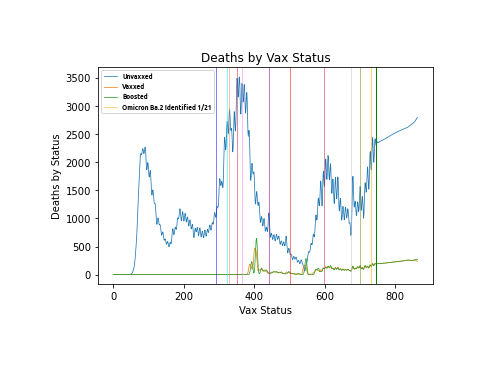
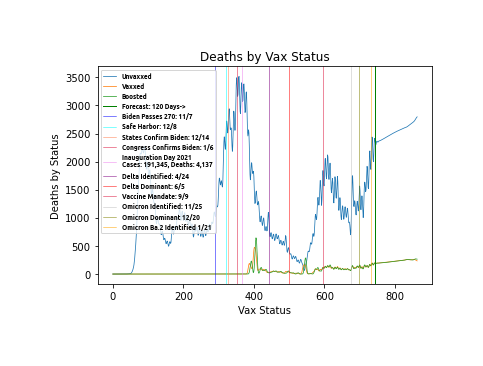
vax status plot

Changed region(s): [[0.0932, 0.1202, 0.9006, 0.8716], [0.8385, 0.3306, 0.8696, 0.3607]]

diff --git a/CovidDLModel.py b/CovidDLModel.py
@@ -218,6 +218,7 @@ def plotUS(inday, intoday, cdate, currentDate, cases, caseRate, growthRates,
     plt.clf()
     plt.cla()
     plt.close()
+    return legend
 
 
 def vaccinePlot(title, plotType, sources=[], plotLabels=[], yscale='log', 
@@ -253,13 +254,14 @@ def vaccinePlot(title, plotType, sources=[], plotLabels=[], yscale='log',
     plt.cla()
     plt.close()
 
-def generalPlot(title, plotType, axisLabel, sources=[], plotLabels=[], yscale='log',
-                lw=.75, ls='solid'):
+
+def generalPlot(title, plotType, axisLabel, sources, yscale='log',
+                average=True, lw=.75, ls='solid', legend=None):
     """Plot generalized data."""
     labels = []
     font = FontProperties(family='ubuntu', weight='bold',
                           style='normal', size=6.5)
-    for row in sources.keys():
+    for key in sources.keys():
         # width = lw
         # style = ls
         # if num == 0:
@@ -268,8 +270,16 @@ def generalPlot(title, plotType, axisLabel, sources=[], plotLabels=[], yscale='l
         # elif num == 1:
         #     style = 'dashed'
         #     width = 1.25
-        label, = plt.plot(sources[row], label=row, lw=lw, ls=ls)
+        row = sources[key]
+        if average is True:
+            row = gs1d(row, sigma=2)
+        label, = plt.plot(row, label=key, lw=lw, ls=ls)
         labels.append(label)
+    if not legend is None:
+        for key in legend:
+            label = plt.axvline(legend[key][0], color=legend[key][1],
+                                label=key, linewidth=legend[key][2])
+            labels.append(label)
     plt.xlabel(axisLabel['x'])
     plt.ylabel(axisLabel['y'])
     plt.legend(handles=labels, prop=font, loc='upper left')
@@ -278,10 +288,12 @@ def generalPlot(title, plotType, axisLabel, sources=[], plotLabels=[], yscale='l
     plt.savefig(plotPath + 'daily_{}.png'.format(plotType),
                 bbox_inches="tight",
                 pad_inches=0.5 + random.uniform(0.0, 0.25))
+    # plt.set_ylim(ymin=0)
     plt.show(block=False)
     plt.clf()
     plt.cla()
     plt.close()
+
 
 def fmtInt(num):
     """Format an integer to thousands."""
@@ -464,8 +476,9 @@ if __name__ == "__main__":
         printText += (text + '\n')
     plotUS(day, today, cdate, currentDate, cases, caseRate, growthRates,
            deaths, dailyDeaths, deathRate, yscale='linear', scenarios=False)
-    plotUS(day, today, cdate, currentDate, cases, caseRate, growthRates,
-           deaths, dailyDeaths, deathRate, yscale='linear', plotType='deaths')
+    legend = plotUS(day, today, cdate, currentDate, cases, caseRate,
+                    growthRates, deaths, dailyDeaths, deathRate,
+                    yscale='linear', plotType='deaths')
     vaccinePlot("Covid-19 Vaccine Deployment", "Vaccine",
                 [totalVaccine, VacFullDaily, vacDistributedDaily],
                 ["Total Vaccinations ({})".format(fmtInt(sum(totalVaccine))),
@@ -482,10 +495,13 @@ if __name__ == "__main__":
     cd.summary(days, totalCases, totalDead)
     cd.writeData('DailyDetailsProjection.txt', printText)
     plotLabel = ['Unvaxxed', 'Vaxxed', 'Boosted']
-    xyLabel = {'x': 'Vax Status', 'y': 'Deaths by Status'}
+    axisLabel = {'x': 'Vax Status', 'y': 'Deaths by Status'}
     vax = Expander()
     result = vax.expand(endDay=len(dailyDeaths)+1)
     vaxStatusDeaths = dict(zip(plotLabel, vax.processData(dailyDeaths)))
+    generalPlot('Deaths by Vax Status', 'vaxStatus', axisLabel,
+                vaxStatusDeaths, yscale='linear', legend=legend)
+
     print(gp.add('./data/*'))
     print(gp.commit('-m', "Upload Daily"))
     print(gp.push())
